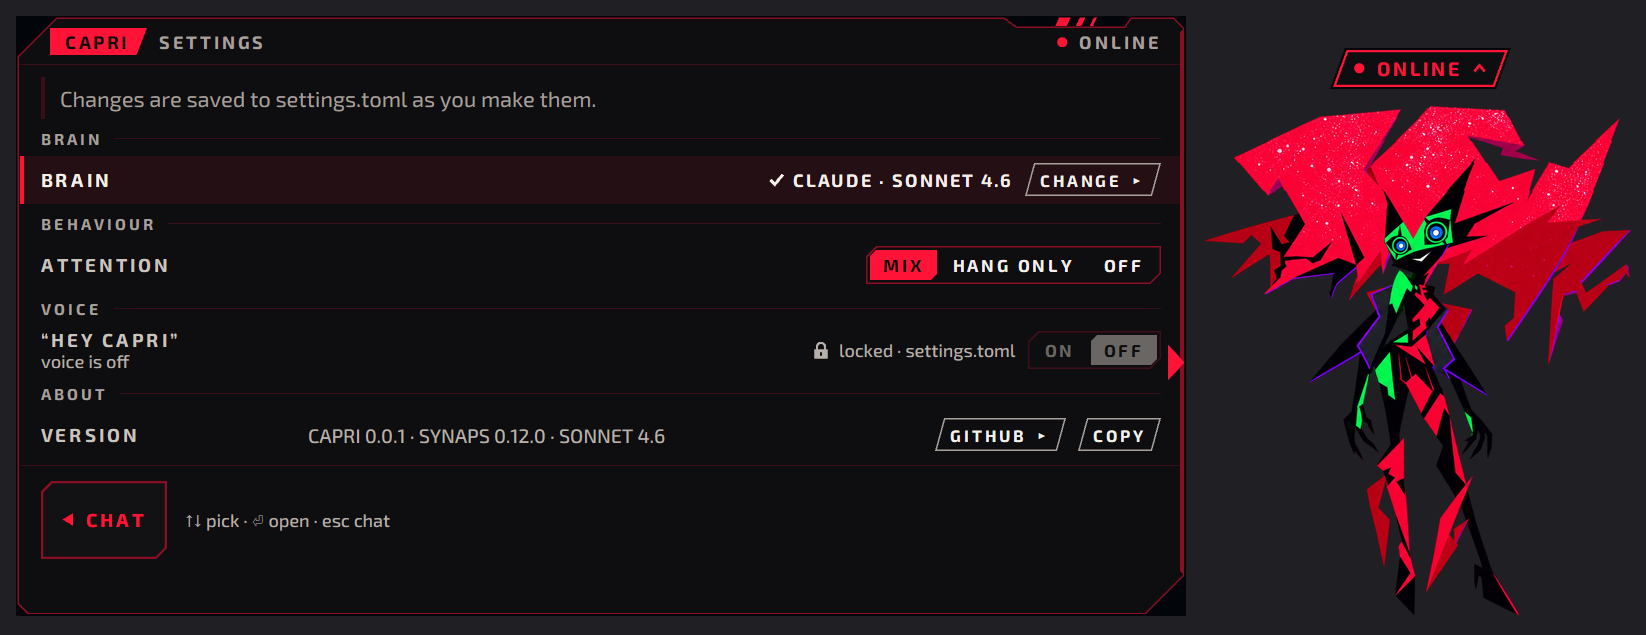
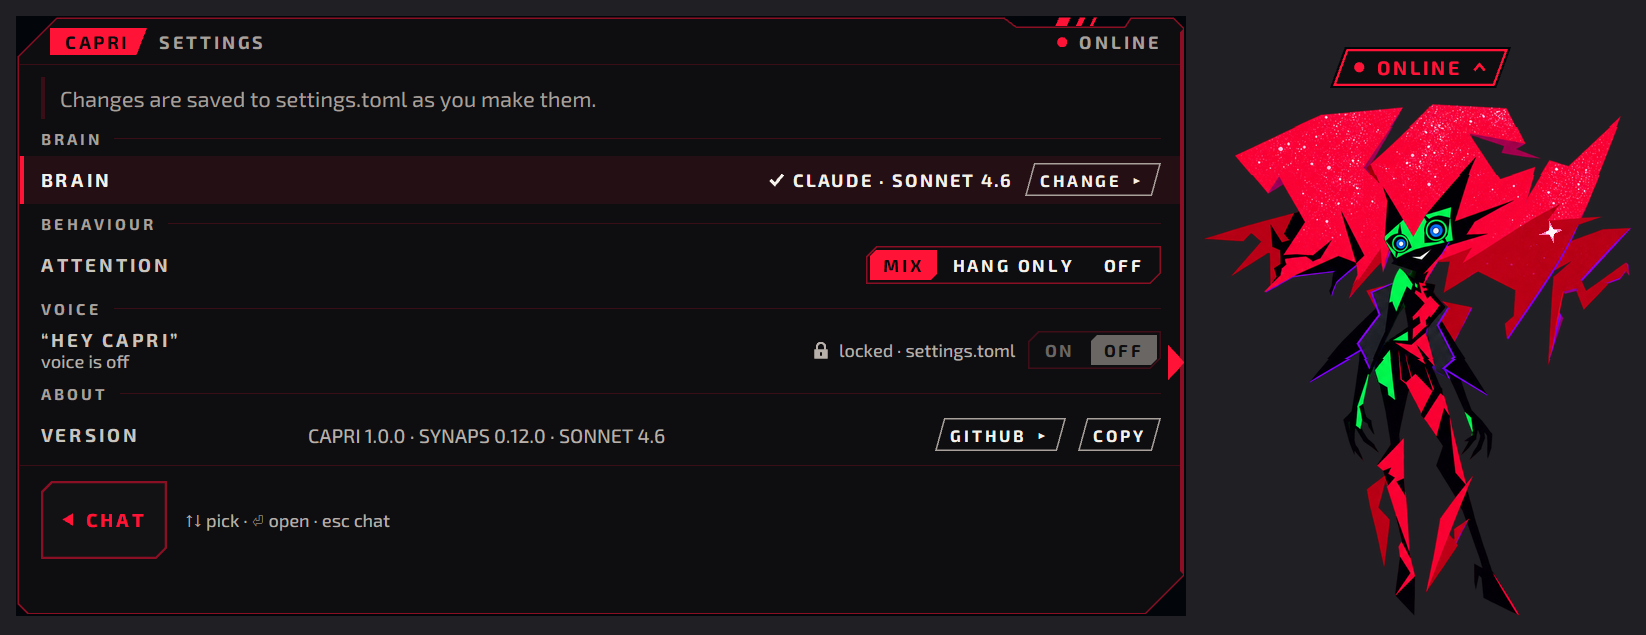
docs: README v1 review nits (#118): the setup link's interim note, Super+Alt+C, the voice line, Windows 11 on Arm, still-settings at 1.0.0
- Get her: a note by the Windows download, between `<!-- remove at v1.0.0 publish -->` comments:
  the first release is on its way, use the irm line until then; for now irm builds her from source,
  and installing Visual Studio's C++ build tools asks for admin (docs/INSTALL.md:46, :61, :267-268).
- The Line's key: Super+Alt+C on GNOME and stock Hyprland, where the installer offers it
  (docs/INSTALL.md:62), in Talk to her and in Controls.
- Voice on Linux: the whole `curl … | bash -s -- --voice` line; uninstall is the same line with
  --uninstall.
- Platforms: "Windows 11 on Arm" (Windows 10 on Arm has no x64 emulation); Windows 11's row says live
  audio is still to check on real hardware (docs/WINDOWS.md:411).
- docs/media/NOTICE.md: the tray stills also show her app icon; a pointer to assets/icon/NOTICE, in
  its own words.
- still-settings.png re-shot from release/v1.0.0 (shots.yml run 44583057632): ABOUT reads CAPRI 1.0.0.
- tour-close.webp re-encoded (lossy q90, sharp YUV, same frames and timing): 815 KB -> 277 KB.

Changed region(s): [[0.7126, 0.0598, 0.9915, 0.5685], [0.2169, 0.6583, 0.2479, 0.7181]]

diff --git a/README.md b/README.md
@@ -107,8 +107,9 @@ Two drives run in the background, one for wandering and one for attention. She a
 ## Talk to her
 
 She has her own Synaps session, named `capri`. **The Line** is how you reach it without leaving what
-you're doing: tap <kbd>$mod</kbd>+<kbd>c</kbd> (<kbd>Win</kbd>+<kbd>Alt</kbd>+<kbd>C</kbd> on Windows)
-and it opens right beside her, wherever she is.
+you're doing: tap <kbd>$mod</kbd>+<kbd>c</kbd> and it opens right beside her, wherever she is. On
+Windows it's <kbd>Win</kbd>+<kbd>Alt</kbd>+<kbd>C</kbd>; on GNOME and stock Hyprland it's
+<kbd>Super</kbd>+<kbd>Alt</kbd>+<kbd>C</kbd>, which the installer offers there.
 
 <p align="center">
   <img src="docs/media/tour-line.webp" width="100%" alt="The Line opens beside Capri with the earlier exchange in its thread; ship it is typed and sent, and her reply streams in">
@@ -193,8 +194,16 @@ curl -fsSL https://raw.githubusercontent.com/HaseebKhalid1507/capri-syn/main/ins
 It asks before anything needs sudo, and `--dry-run` prints every step without doing one.
 
 **🪟 Windows 11.** **[⬇ capri-syn setup](https://github.com/HaseebKhalid1507/capri-syn/releases/latest/download/capri-syn-setup-x86_64.exe)**,
-then double-click it. Per user, no admin. It's unsigned for now, so SmartScreen asks first. Rather a
-terminal?
+then double-click it. Per user, no admin. It's unsigned for now, so SmartScreen asks first.
+
+<!-- remove at v1.0.0 publish -->
+> [!NOTE]
+> **The first release is on its way.** Until it's out, that link has nothing to serve: use the line
+> below. For now it builds her from source, and if it has to install Visual Studio's C++ build tools,
+> they ask for admin (a UAC prompt).
+<!-- /remove at v1.0.0 publish -->
+
+Rather a terminal?
 
 ```powershell
 irm https://raw.githubusercontent.com/HaseebKhalid1507/capri-syn/main/install.ps1 | iex
@@ -220,10 +229,15 @@ setup's last page offers the Claude sign-in too. No account?
 <details>
 <summary><b>Flags, voice, uninstalling, the manual route</b></summary>
 
-- **Voice:** `bash -s -- --voice` on Linux. On Windows, setup's "Her voice" page (mic, "Hey Capri",
-  replies aloud).
-- **Uninstall:** `--uninstall` removes what it added, and says where Synaps is (it stays: other clients
-  may use its daemon). On Windows: Settings ▸ Apps ▸ capri-syn.
+- **Voice** on Linux:
+
+  ```sh
+  curl -fsSL https://raw.githubusercontent.com/HaseebKhalid1507/capri-syn/main/install.sh | bash -s -- --voice
+  ```
+
+  On Windows, setup's "Her voice" page (mic, "Hey Capri", replies aloud).
+- **Uninstall:** on Linux, the same line with `--uninstall` removes what it added, and says where
+  Synaps is (it stays: other clients may use its daemon). On Windows: Settings ▸ Apps ▸ capri-syn.
 - **Every step and flag**, prebuilt or from source: [docs/INSTALL.md](docs/INSTALL.md). Windows in
   depth: [docs/WINDOWS.md](docs/WINDOWS.md).
 - **Release assets:** `synaps-avatar-x86_64-unknown-linux-gnu.tar.gz`, `capri-syn-setup-x86_64.exe`
@@ -303,7 +317,7 @@ The session rules, flags, packs and the dev control: [docs/REFERENCE.md](docs/RE
 | Click her head | Headpat |
 | Drag her, fling her | Ragdoll. Drop her on a window edge to perch her there |
 | Right-click | Her menu |
-| <kbd>$mod</kbd>+<kbd>c</kbd> tap · Windows: <kbd>Win</kbd>+<kbd>Alt</kbd>+<kbd>C</kbd> | The Line, beside her |
+| <kbd>$mod</kbd>+<kbd>c</kbd> tap · GNOME, stock Hyprland: <kbd>Super</kbd>+<kbd>Alt</kbd>+<kbd>C</kbd> (the installer offers it) · Windows: <kbd>Win</kbd>+<kbd>Alt</kbd>+<kbd>C</kbd> | The Line, beside her |
 | "Hey Capri" | A hands-free conversation (voice on) |
 | <kbd>Ctrl</kbd>+<kbd>,</kbd> in the Line | Settings |
 
@@ -413,8 +427,8 @@ machine needs a look): [docs/WATCH.md](docs/WATCH.md).
 | **Linux, X11** | Her home. Used daily on i3, with or without a compositor. |
 | **Linux, Hyprland** | Native Wayland: perching, drag and fling, effects, several monitors. Tested in a nested rig, not yet daily-driven. No idle time there yet, so typing alone for 5 minutes reads as away. |
 | **Linux, GNOME, KDE, sway** | Through XWayland, which she picks herself. She perches on X apps only, and may nap while you type in native Wayland ones ([limits](docs/INSTALL.md#gnome-kde-and-other-wayland-desktops)). Untested on a real GNOME or KDE session. |
-| **Windows 11** | Her installer, her tray, her own keys, her voice. Checked by hand in a Windows 11 VM ([the VM day](docs/WINDOWS.md#the-vm-day-2026-11-18)); CI runs her installers end to end on every pull request. |
-| **Windows 10, Windows on Arm** | Both installers get through (Windows 10 1809 or newer; Arm through x64 emulation), but she has never been run on either. Untested, so not supported yet. |
+| **Windows 11** | Her installer, her tray, her own keys, her voice. Checked by hand in a Windows 11 VM ([the VM day](docs/WINDOWS.md#the-vm-day-2026-11-18)); live audio is still to check on real hardware. CI runs her installers end to end on every pull request. |
+| **Windows 10, Windows 11 on Arm** | Both installers get through (Windows 10 1809 or newer; Arm through x64 emulation), but she has never been run on either. Untested, so not supported yet. |
 | **macOS** | Not planned. |
 
 - **Names.** The repository and the Windows installers are `capri-syn`. The crate, the binary and the

diff --git a/docs/media/NOTICE.md b/docs/media/NOTICE.md
@@ -9,6 +9,9 @@ Rights holders: open an issue and it comes down.
 
 They were shot with a pack built by `tools/make-pack` from the two sources below, and nothing else.
 The art files themselves are not in this repository: `make-pack` assembles them on your machine.
+The one other image in them is her app icon, in the notification area of `still-tray.png` and
+`still-tray-tooltip.png`: a crop of Capri's face from a frame of Cyberpunk: Edgerunners 2, with a
+chamfered corner added. Its terms are in [`assets/icon/NOTICE`](../../assets/icon/NOTICE).
 
 ## The banner and the cards: original
 
